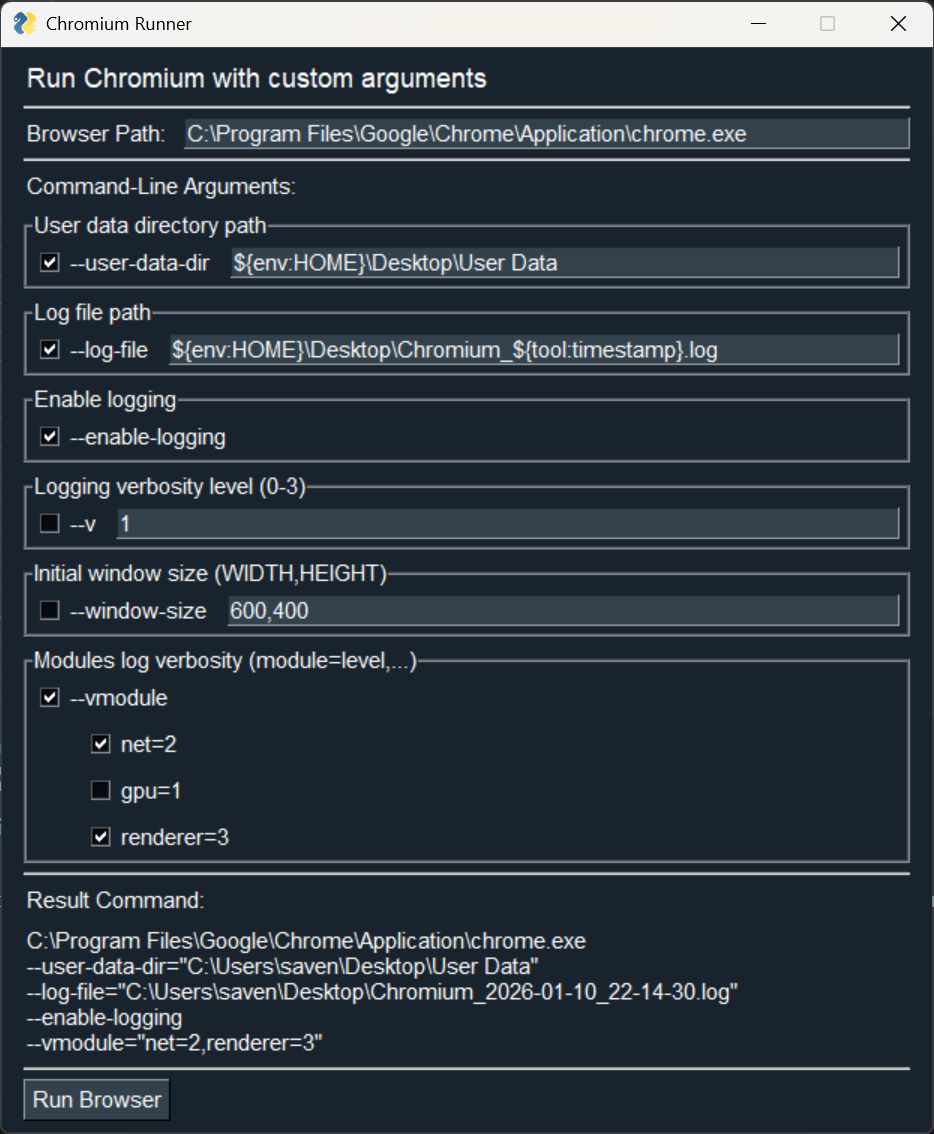
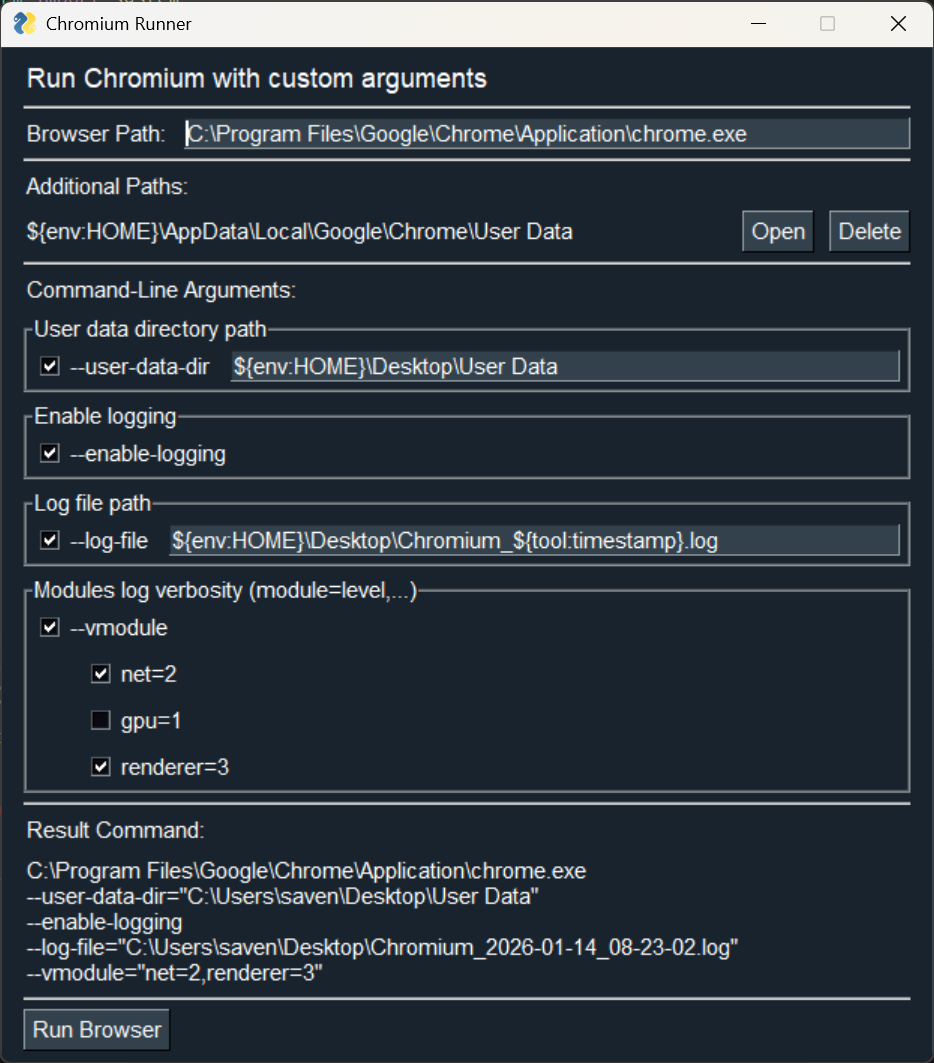
Add additional paths feature (#12)
* feat(config): add browser path input and update handling

* WIP

* feat(ui): add functionality to open and delete additional paths

* feat(docs): update README to include additional paths management feature

diff --git a/main.py b/main.py
@@ -17,6 +17,7 @@ from typing import Callable, Self
 from FreeSimpleGUI import (WIN_CLOSED, Button, Checkbox, Element, Frame,
                            HorizontalSeparator, Input, Text, Window, theme)
 
+from os_tools import OsTools
 from static_config import DEFAULT_CONFIG
 
 # Set a theme for the GUI
@@ -97,6 +98,9 @@ class ValueInterpolator:
 
         return pattern.sub(repl, s)
 
+    def interpolate_path(self, path: Path) -> Path:
+        return Path(self.interpolate_string(str(path)))
+
 
 class ArgType(Enum):
     FLAG = 'flag'
@@ -163,14 +167,13 @@ class Config:
         self.path: Path = filepath
         json = Json.loads(filepath.read_text())
         self.browser_path = Path(json.get('browser_path', ''))
-        if not self.browser_path.exists():
-            self.browser_path = ''
-
+        self.additional_paths: list[Path] = [Path(p) for p in json.get('additional_paths', [])]
         self.args: list[Arg] = [Arg.from_json(arg_data) for arg_data in json.get('args', [])]
 
     def save(self) -> None:
         json: dict = {}
         json['browser_path'] = str(self.browser_path)
+        json['additional_paths'] = [str(p) for p in self.additional_paths]
         json['args'] = [arg.to_json() for arg in self.args]
         self.path.write_text(Json.dumps(json, indent=4) + '\n', newline='\n')
 
@@ -197,6 +200,9 @@ class Config:
             config_files = [path]
 
         return [cls(filepath) for filepath in config_files]
+
+    def interpolated_additional_path(self, index: int) -> Path:
+        return ValueInterpolator().interpolate_path(self.additional_paths[index])
 
     def run_browser_command(self) -> list[str]:
         args: list[str] = [str(self.browser_path)]
@@ -241,6 +247,10 @@ class Config:
             items = value.split(',')
             arg.value = [ArgListItem(enabled=True, value=item.strip()) for item in items]
 
+    def set_browser_path(self, path: Path) -> None:
+        self.browser_path = path
+        self.save()
+
 
 class App:
     def __init__(self) -> None:
@@ -250,6 +260,19 @@ class App:
 
         # UI elements
         self.handlers: dict[str, Callable] = {}
+
+        # Create browser path input in advance
+        self.browser_path_key = 'browser_path_input'
+        self.browser_path_input = Input(
+            key=self.browser_path_key,
+            default_text=str(self.config.browser_path),
+            text_color='white' if self.config.browser_path.exists() else 'red',
+            size=(60, 1),
+            enable_events=True,
+            expand_x=True,
+        )
+        self.handlers[self.browser_path_key] = self._on_browser_path_input
+
         self.command_output = Text(self.config.decorated_run_browser_command())
         self.window = self._create_main_window()
 
@@ -264,7 +287,7 @@ class App:
         print('No configuration files found. Exiting.')
         return None
 
-    def _run_browser(self) -> None:
+    def _run_browser(self, _: dict) -> None:
         command = self.config.run_browser_command()
         command_str = ' '.join(command)
         print(f'Running browser: {command_str}')
@@ -274,6 +297,14 @@ class App:
         if self.window is not None and self.config is not None:
             cmd = self.config.decorated_run_browser_command()
             self.command_output.update(cmd)
+
+    def _on_browser_path_input(self, values: dict) -> None:
+        if self.browser_path_key not in values:
+            return
+        path = Path(values[self.browser_path_key])
+        self.config.set_browser_path(path)
+        ok = self.config.browser_path.exists()
+        self.browser_path_input.update(text_color=('white' if ok else 'red'))
 
     @staticmethod
     def h_spacer() -> Element:
@@ -331,8 +362,18 @@ class App:
         # Browser path
         bp_row: list[Element] = []
         bp_row.append(Text('Browser Path:'))
-        bp_row.append(Input(default_text=str(self.config.browser_path), size=(60, 1)))
+        bp_row.append(self.browser_path_input)
         layout.append(bp_row)
+
+        # Additional paths
+        if self.config.additional_paths:
+            layout.append([HorizontalSeparator()])
+            layout.append([Text('Additional Paths:')])
+            for index, path in enumerate(self.config.additional_paths):
+                text = Text(str(path), expand_x=True)
+                open_button = Button('Open', key=f'{index}_open_additional_path')
+                delete_button = Button('Delete', key=f'{index}_delete_additional_path')
+                layout.append([text, open_button, delete_button])
 
         # Arguments
         layout.append([HorizontalSeparator()])
@@ -357,6 +398,8 @@ class App:
         LIST_CHECKBOX_SUFFIX = '_list_checkbox'
         CHECKBOX_SUFFIX = '_checkbox'
         INPUT_SUFFIX = '_input'
+        OPEN_ADDITIONAL_PATH_SUFFIX = '_open_additional_path'
+        DELETE_ADDITIONAL_PATH_SUFFIX = '_delete_additional_path'
 
         # Event loop
         while True:
@@ -367,7 +410,7 @@ class App:
                 break
 
             if event in self.handlers:
-                self.handlers[event]()
+                self.handlers[event](values)
 
             elif event.endswith(LIST_CHECKBOX_SUFFIX):
                 arg_list_item_name = event.replace(LIST_CHECKBOX_SUFFIX, '', -1)
@@ -388,6 +431,16 @@ class App:
                 arg_name = event.replace(INPUT_SUFFIX, '', -1)
                 self.config.set_value(arg_name, values[event])
                 self.config.save()
+
+            elif event.endswith(OPEN_ADDITIONAL_PATH_SUFFIX):
+                index_str = event.replace(OPEN_ADDITIONAL_PATH_SUFFIX, '', -1)
+                path = self.config.interpolated_additional_path(int(index_str))
+                OsTools.open_path(path)
+
+            elif event.endswith(DELETE_ADDITIONAL_PATH_SUFFIX):
+                index_str = event.replace(DELETE_ADDITIONAL_PATH_SUFFIX, '', -1)
+                path = self.config.interpolated_additional_path(int(index_str))
+                OsTools.delete_path(path)
 
             self._update_run_command_display()
 

diff --git a/os_tools.py b/os_tools.py
@@ -1,0 +1,36 @@
+import shutil
+import subprocess
+from pathlib import Path
+from platform import system
+
+
+class OsTools:
+    @staticmethod
+    def open_path(path: Path) -> None:
+        """Open a file or directory using the system's default application."""
+        if not path.exists():
+            print(f'Path does not exist: {path}')
+            return
+        cmd: dict = {
+            'Windows': 'explorer',
+            'Darwin': 'open',
+            'Linux': 'xdg-open',
+        }
+        opener = cmd.get(system(), '')
+        subprocess.Popen([opener, str(path)])
+
+    @staticmethod
+    def delete_path(path: Path) -> None:
+        """Delete a file or directory at the given path."""
+        if not path.exists():
+            print(f'Path does not exist: {path}')
+            return
+        try:
+            if path.is_file():
+                path.unlink()
+                print(f'Deleted file: {path}')
+            elif path.is_dir():
+                shutil.rmtree(path)
+                print(f'Deleted directory: {path}')
+        except Exception as e:
+            print(f'Error deleting path {path}: {e}')

diff --git a/static_config.py b/static_config.py
@@ -3,6 +3,9 @@
 # If no config file exists, this default will be written to disk
 DEFAULT_CONFIG: dict = {
     "browser_path": "C:\\Program Files\\Google\\Chrome\\Application\\chrome.exe",
+    "additional_paths": [
+        "${env:HOME}\\AppData\\Local\\Google\\Chrome\\User Data",
+    ],
     "args": [
         {
             "name": "user-data-dir",

diff --git a/README.md b/README.md
@@ -23,6 +23,7 @@ Under the hood, it uses a JSON configuration file that defines the browser path 
 - 💾 Settings are saved in JSON config files
 - 🔧 Support for environment variables (`${env:VAR}`) and timestamps (`${tool:timestamp}`)
 - 👁 Preview the full command before running it
+- 📂 Manage additional paths with open and delete functionality
 
 ![ChromiumRunner Screenshot](resources/app.png)
 
